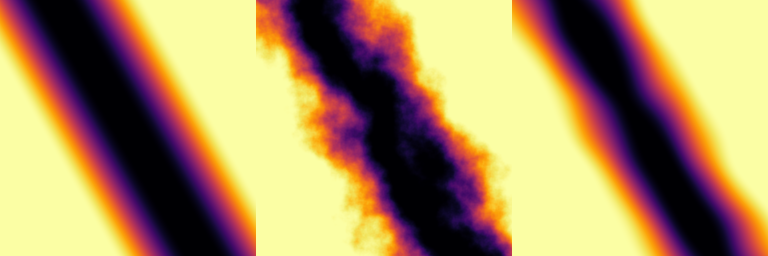
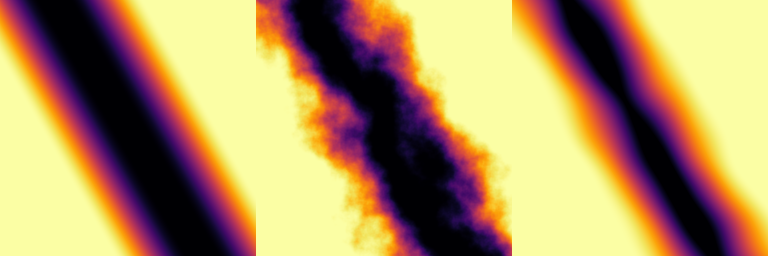
Add sharp bottom option for rift primitive

Changed region(s): [[0.6562, 0.0, 1.0, 1.0]]

diff --git a/HighMap/src/primitives/functions/functions.cpp b/HighMap/src/primitives/functions/functions.cpp
@@ -146,30 +146,52 @@ GaussianPulseFunction::GaussianPulseFunction(float sigma, Vec2<float> center)
 RiftFunction::RiftFunction(float       angle,
                            float       slope,
                            float       width,
+                           bool        sharp_bottom,
                            Vec2<float> center)
     : Function(), slope(slope), width(width), center(center)
 {
   this->set_angle(angle);
 
-  this->set_delegate(
-      [this](float x, float y, float ctrl_param)
-      {
-        float local_width = 0.5f * this->width * ctrl_param;
-
-        float r = this->ca * (x - this->center.x) +
-                  this->sa * (y - this->center.y);
-        r = std::abs(r);
-
-        if (r > local_width + 1.f / this->slope)
-          return 1.f;
-        else if (r < local_width)
-          return 0.f;
-        else
+  if (sharp_bottom)
+    this->set_delegate(
+        [this](float x, float y, float ctrl_param)
         {
-          r = (r - local_width) * this->slope;
-          return r * r * (3.f - 2.f * r);
-        }
-      });
+          float local_width = 0.5f * this->width * ctrl_param;
+
+          float r = this->ca * (x - this->center.x) +
+                    this->sa * (y - this->center.y);
+          r = std::abs(r);
+
+          if (r > local_width + 1.f / this->slope)
+            return 1.f;
+          else if (r < local_width)
+            return 0.f;
+          else
+          {
+            r = (r - local_width) * this->slope;
+            return upper_smoothstep3(r);
+          }
+        });
+  else
+    this->set_delegate(
+        [this](float x, float y, float ctrl_param)
+        {
+          float local_width = 0.5f * this->width * ctrl_param;
+
+          float r = this->ca * (x - this->center.x) +
+                    this->sa * (y - this->center.y);
+          r = std::abs(r);
+
+          if (r > local_width + 1.f / this->slope)
+            return 1.f;
+          else if (r < local_width)
+            return 0.f;
+          else
+          {
+            r = (r - local_width) * this->slope;
+            return smoothstep3(r);
+          }
+        });
 }
 
 SlopeFunction::SlopeFunction(float angle, float slope, Vec2<float> center)
@@ -204,7 +226,7 @@ StepFunction::StepFunction(float angle, float slope, Vec2<float> center)
         else if (r > -dt)
         {
           r = local_slope * (r + dt);
-          return r * r * (3.f - 2.f * r);
+          return smoothstep3(r);
         }
         else
           return 0.f;

diff --git a/HighMap/include/highmap/functions.hpp b/HighMap/include/highmap/functions.hpp
@@ -291,9 +291,14 @@ public:
    * @param angle Overall rotation angle (in degrees).
    * @param slope Rift slope.
    * @param width Rift width.
+   * @param sharp_bottom Decide whether the rift bottom is sharp or not.
    * @param center Primitive reference center.
    */
-  RiftFunction(float angle, float slope, float width, Vec2<float> center);
+  RiftFunction(float       angle,
+               float       slope,
+               float       width,
+               bool        sharp_bottom,
+               Vec2<float> center);
 
   /**
    * @brief Set the angle.
@@ -308,10 +313,11 @@ public:
   }
 
 protected:
-  float       angle;  ///< Overall rotation angle (in degrees).
-  float       slope;  ///< Rift slope.
-  float       width;  ///< Rift width.
-  Vec2<float> center; ///< Primitive reference center.
+  float       angle;        ///< Overall rotation angle (in degrees).
+  float       slope;        ///< Rift slope.
+  float       width;        ///< Rift width.
+  bool        sharp_bottom; ///< Rift bottom sharpness.
+  Vec2<float> center;       ///< Primitive reference center.
 
 private:
   float ca; ///< Cached cosine of the angle.

diff --git a/examples/ex_rift/ex_rift.cpp b/examples/ex_rift/ex_rift.cpp
@@ -10,6 +10,8 @@ int main(void)
   float           talus = 4.f;
   float           width = 0.1f;
 
+  bool sharp_bottom = false;
+
   float kw = 4.f;
   uint  seed = 1;
   auto  noise = 0.2f * hmap::noise_fbm(hmap::NoiseType::PERLIN,
@@ -20,7 +22,8 @@ int main(void)
                                       0.f);
 
   auto z1 = hmap::rift(shape, angle, talus, width);
-  auto z2 = hmap::rift(shape, angle, talus, width, nullptr, &noise);
+  auto z2 =
+      hmap::rift(shape, angle, talus, width, sharp_bottom, nullptr, &noise);
 
   // with control array
   hmap::Array ctrl_array = hmap::noise(hmap::NoiseType::PERLIN,
@@ -29,7 +32,12 @@ int main(void)
                                        seed);
   hmap::remap(ctrl_array, 0.f, 1.f);
 
-  hmap::Array z3 = hmap::rift(shape, angle, talus, width, &ctrl_array);
+  hmap::Array z3 = hmap::rift(shape,
+                              angle,
+                              talus,
+                              width,
+                              true, // sharp bottom
+                              &ctrl_array);
 
   hmap::export_banner_png("ex_rift.png", {z1, z2, z3}, hmap::cmap::inferno);
 }

diff --git a/HighMap/src/primitives/primitives.cpp b/HighMap/src/primitives/primitives.cpp
@@ -134,6 +134,7 @@ Array rift(Vec2<int>         shape,
            float             angle,
            float             slope,
            float             width,
+           bool              sharp_bottom,
            Array            *p_ctrl_param,
            Array            *p_noise_x,
            Array            *p_noise_y,
@@ -142,7 +143,11 @@ Array rift(Vec2<int>         shape,
            hmap::Vec4<float> bbox)
 {
   Array              array = Array(shape);
-  hmap::RiftFunction f = hmap::RiftFunction(angle, slope, width, center);
+  hmap::RiftFunction f = hmap::RiftFunction(angle,
+                                            slope,
+                                            width,
+                                            sharp_bottom,
+                                            center);
 
   fill_array_using_xy_function(array,
                                bbox,

diff --git a/HighMap/include/highmap/primitives.hpp b/HighMap/include/highmap/primitives.hpp
@@ -681,6 +681,7 @@ Array peak(Vec2<int>   shape,
  * @param angle Overall rotation angle (in degree).
  * @param slope Step slope (assuming a unit domain).
  * @param width Rift width (assuming a unit domain).
+ * @param sharp_bottom Decide whether the rift bottom is sharp or not.
  * @param p_ctrl_param Reference to the control parameter array (acts as a
  * multiplier for the width parameter).
  * @param p_noise_x, p_noise_y Reference to the input noise arrays.
@@ -699,6 +700,7 @@ Array rift(Vec2<int>   shape,
            float       angle,
            float       slope,
            float       width,
+           bool        sharp_bottom = false,
            Array      *p_ctrl_param = nullptr,
            Array      *p_noise_x = nullptr,
            Array      *p_noise_y = nullptr,

diff --git a/HighMap/include/highmap/math.hpp b/HighMap/include/highmap/math.hpp
@@ -290,4 +290,13 @@ Array smoothstep5(const Array &array,
  */
 float smoothstep5(const float x);
 
+/**
+ * @brief Return the 3rd order smoothstep function, with zero derivative only
+ * at 1.
+ *
+ * @param x Input.
+ * @return float Output.
+ */
+float upper_smoothstep3(const float x);
+
 } // namespace hmap

diff --git a/HighMap/src/math/math.cpp b/HighMap/src/math/math.cpp
@@ -287,4 +287,9 @@ float smoothstep5(const float x)
   return x * x * x * (x * (x * 6.f - 15.f) + 10.f);
 }
 
+float upper_smoothstep3(const float x)
+{
+  return x * (1.f + x - x * x);
+}
+
 } // namespace hmap
